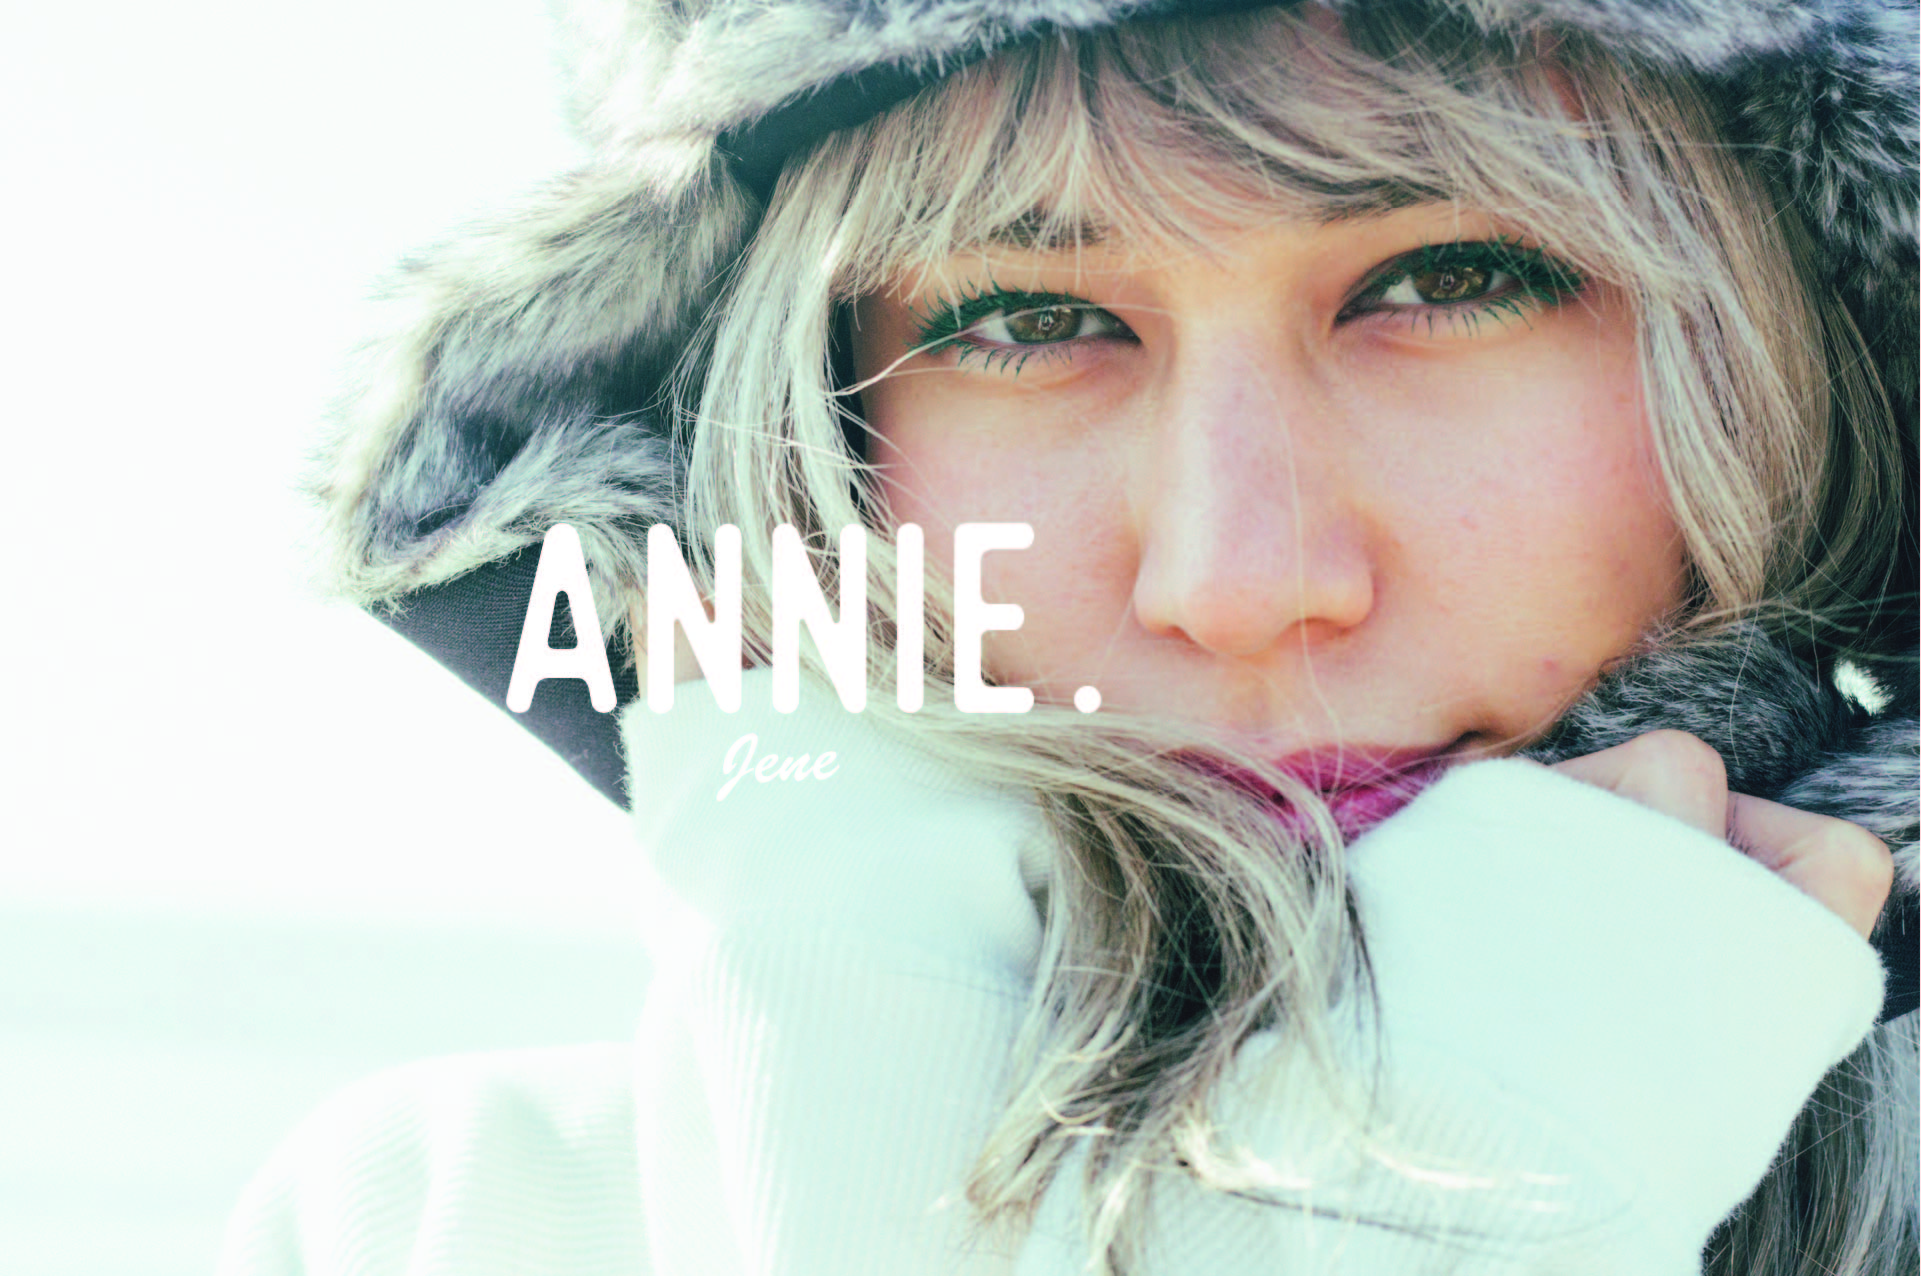
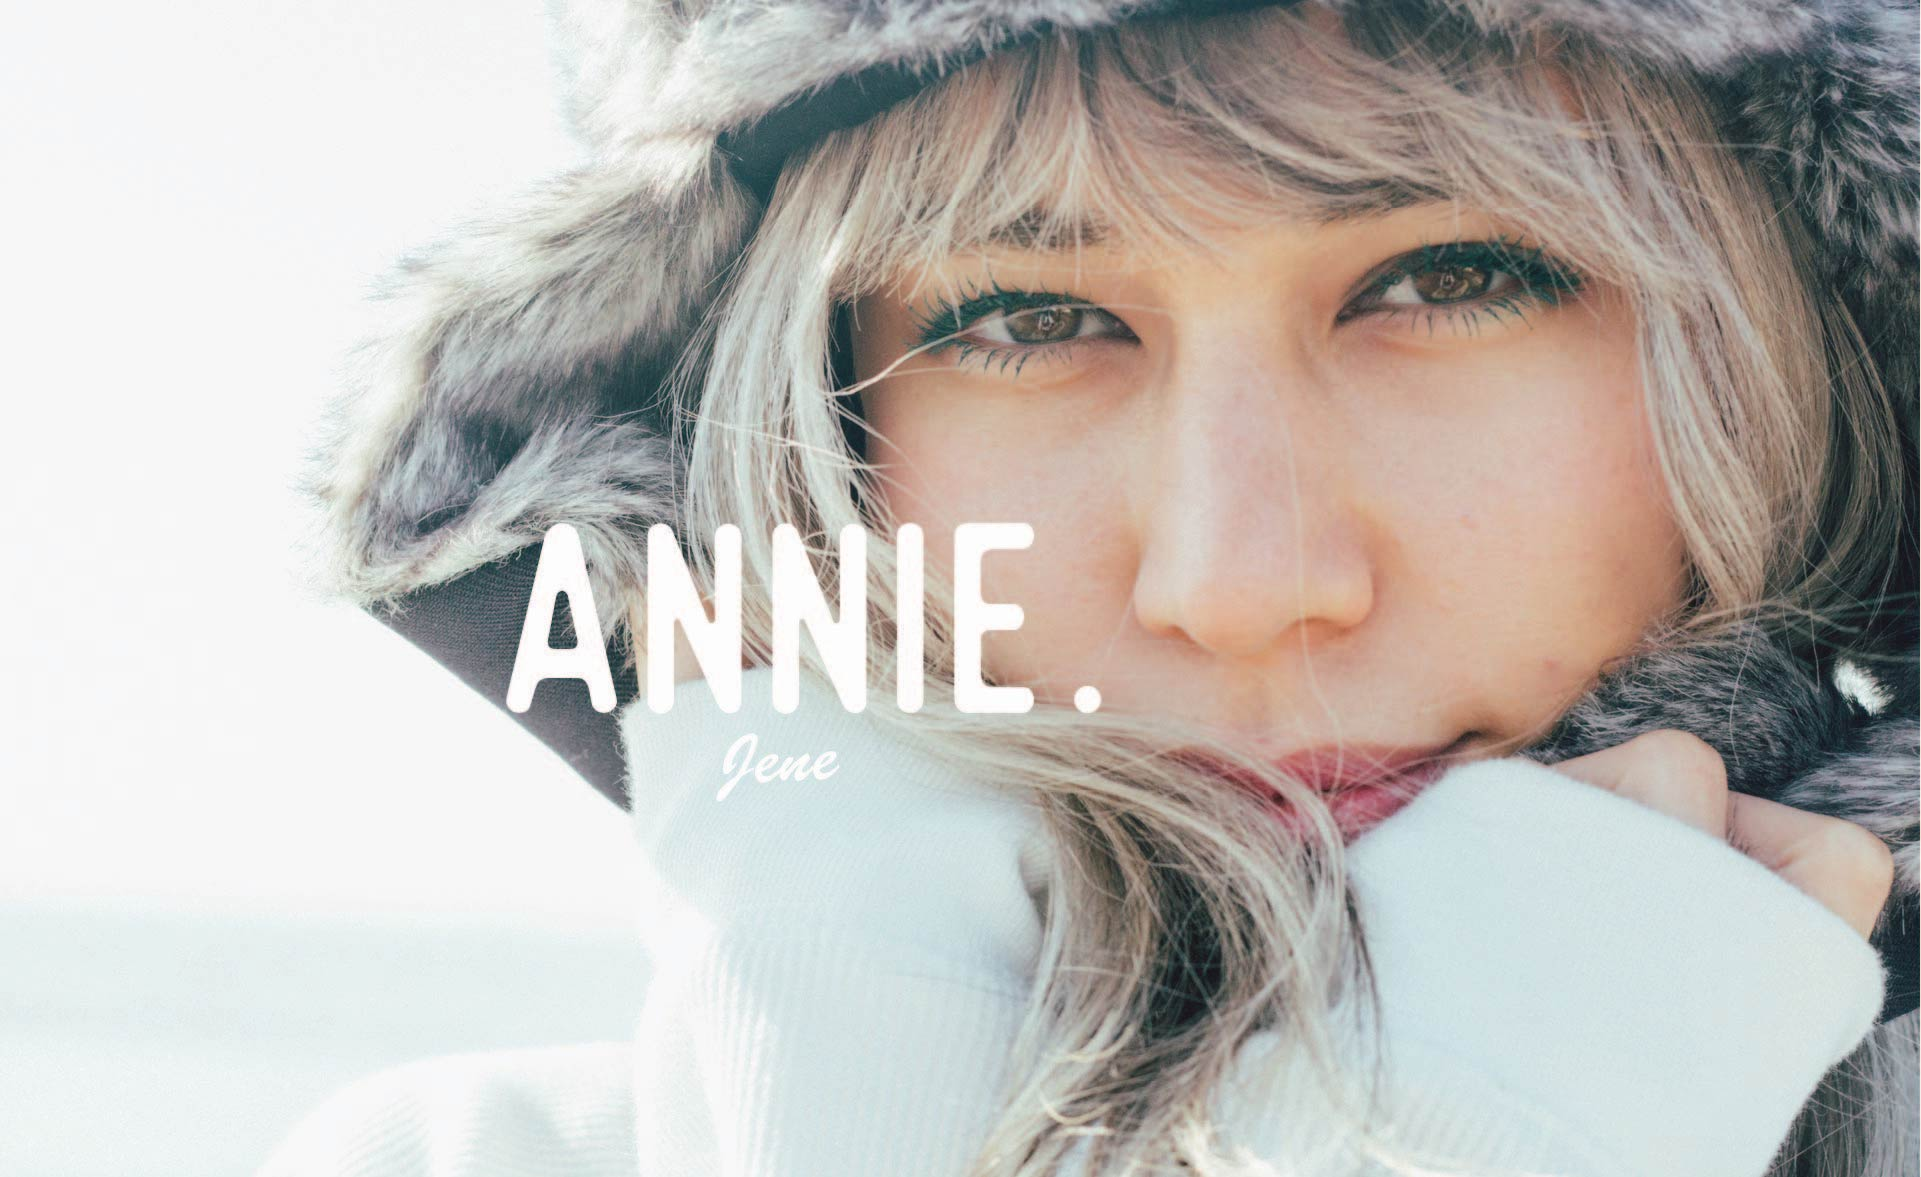
modification

diff --git a/hatch-ver3/style.css b/hatch-ver3/style.css
@@ -7663,17 +7663,18 @@ body {
 
 .annie {
   background-color: #f6cdc4;
-  height: 297px; }
+  height: 330px; }
   .annie-img {
-    width: 42%; }
+    width: 58%;
+    height: 100%; }
     .annie-img img {
-      width: 139%;
-      height: 298px;
+      width: 100%;
+      height: 100%;
       object-fit: cover;
       display: block; }
   .annie .annie-content {
-    padding-left: 267px;
-    padding-top: 60px;
+    margin: 0 auto; }
+  .annie .annie-header {
     text-align: center; }
   .annie-header-main {
     font-size: 36px;
@@ -8898,7 +8899,7 @@ category-page
     letter-spacing: 1px; }
 
 /* 	mobile settings windowサイズが680以下になった時の処理 */
-@media (max-width: 680px) {
+@media (max-width: 750px) {
   /*要素を消す*/
   html {
     margin-top: 0 !important; }
@@ -9850,7 +9851,7 @@ related-article(関連記事)
 	mobile settings windowサイズが1024以下- 680以上になった時の処理
 
 **************************************************/
-@media (min-width: 680px) and (max-width: 1050px) {
+@media (min-width: 750px) and (max-width: 1050px) {
   .header__pic .background-draw img {
     display: none; }
   .header__pic--logo .sub-title {

diff --git a/hatch-ver3/_scss/_main.scss b/hatch-ver3/_scss/_main.scss
@@ -761,19 +761,21 @@ width: 40%;
 }
 .annie {
   background-color: $pink_01;
-  height: 297px;
+  height: 330px;
   &-img{
-    width: 42%;
+    width: 58%;
+    height: 100%;
     img {
-      width: 139%;
-      height: 298px;
+      width: 100%;
+      height: 100%;
       object-fit: cover;
       display: block;
     }
   }
   .annie-content {
-    padding-left: 267px;
-    padding-top: 60px;
+    margin: 0 auto;
+  }
+  .annie-header{
     text-align: center;
   }
   &-header-main {

diff --git a/hatch-ver3/_scss/_tablet.scss b/hatch-ver3/_scss/_tablet.scss
@@ -4,7 +4,7 @@
 
 **************************************************/
 
-@media (min-width: 680px) and (max-width: 1050px){
+@media (min-width: 750px) and (max-width: 1050px){
   .header__pic{
     .background-draw img {
       display: none;

diff --git a/hatch-ver3/_scss/_mobile.scss b/hatch-ver3/_scss/_mobile.scss
@@ -1,5 +1,5 @@
 /* 	mobile settings windowサイズが680以下になった時の処理 */
-@media (max-width:680px) {
+@media (max-width:750px) {
   /*要素を消す*/
   html {
     margin-top: 0 !important;

diff --git a/hatch-ver3/components-php/annie-banner.php b/hatch-ver3/components-php/annie-banner.php
@@ -3,6 +3,7 @@
 <img src="<?php echo get_template_directory_uri(); ?>/images/annie-banner.jpg">
 </div>
 <div class='annie-content'>
+<div class='annie-header'>
 <div class='annie-header-sub'>
 姉妹サイトOPEN!!
 </div>
@@ -15,5 +16,6 @@
 <button class='btn btn-round-white-02'>
 <a href="https://anniejene.com//">サイトはこちらから</a>
 </button>
+</div>
 </div>
 </div>
